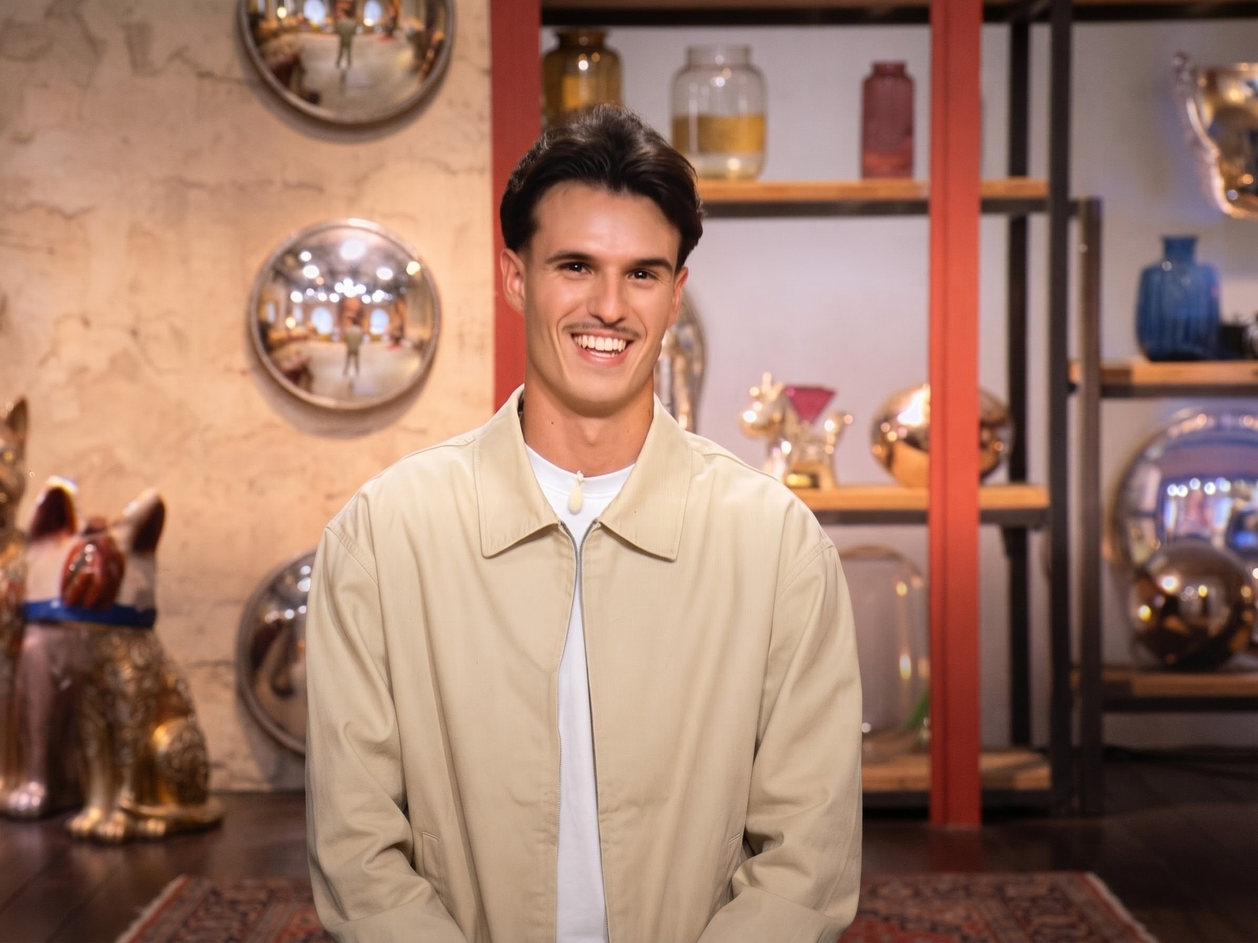
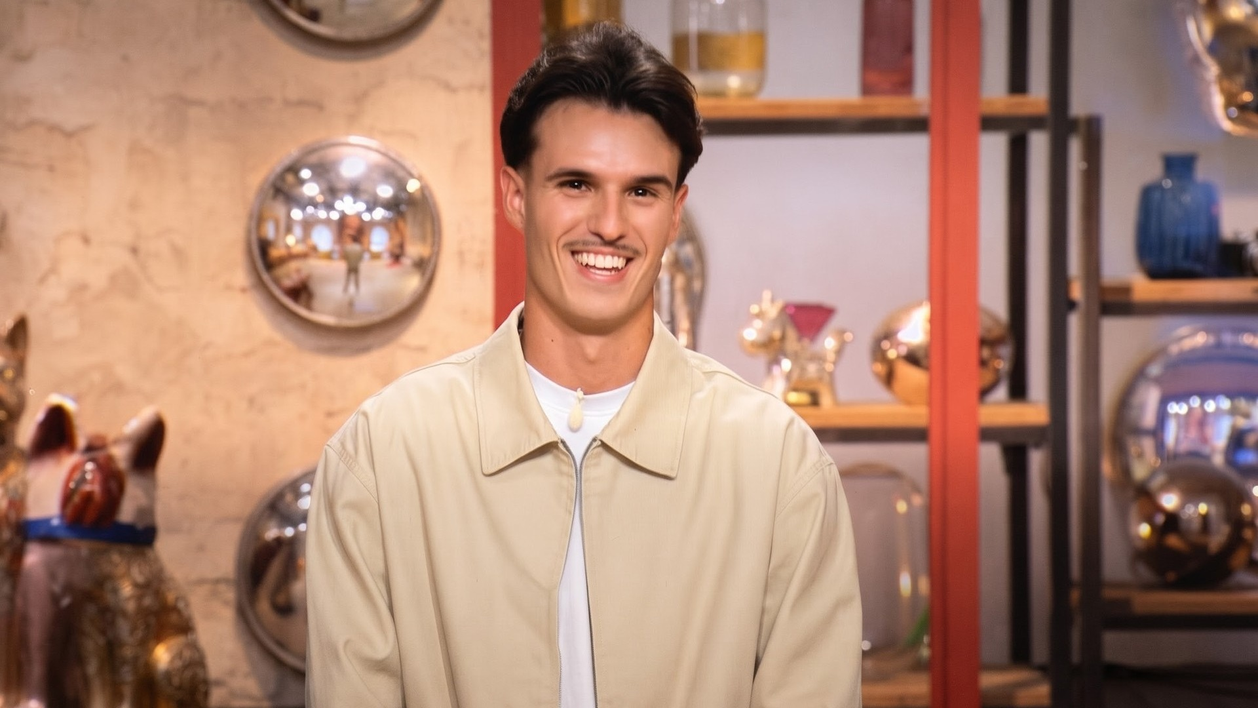
Affaire conclue : réfs et cleans recadrés en 16/9
Claude-Session: https://claude.ai/code/session_015182LFh91P53rg7UUMPXi4

diff --git a/sw.js b/sw.js
@@ -1,7 +1,7 @@
 /* Mode hors ligne – La Grande Incruste 3 */
-const CORE='lgi-core-b22a68559e',IMG='lgi-img-v5',VID='lgi-vid-v1',RUN='lgi-run-v1';
+const CORE='lgi-core-7cfb0a7a53',IMG='lgi-img-v5',VID='lgi-vid-v1',RUN='lgi-run-v1';
 const FILES=['./','index.html','live.html','textes.json','diffusion.js','pdt.js','pdt.json','clean.js','offline.js','manifest.json','update.js','icon-192.png','icon-512.png'];
-const IMGS=["img/001.jpg?v=a0011ef5", "img/002.jpg?v=8a2c886e", "img/003.jpg?v=9f14b1a4", "img/004.jpg?v=be432a55", "img/005.jpg?v=705c38bc", "img/006.jpg?v=d040ff7c", "img/007.jpg?v=d00b0e6d", "img/008.jpg?v=42c808c1", "img/009.jpg?v=75ef2f66", "img/010.jpg?v=fd4c955d", "img/011.jpg?v=bab25d92", "img/012.jpg?v=1a95a5f6", "img/013.jpg?v=3dd606ea", "img/014.jpg?v=b9f47b6b", "img/015.jpg?v=485d7679", "img/016.jpg?v=6b96499b", "img/017.jpg?v=cb431869", "img/018.jpg?v=7e99b3dd", "img/019.jpg?v=9fa5921c", "img/020.jpg?v=a31e7f54", "img/021.jpg?v=b69abc28", "img/022.jpg?v=354d4626", "img/023.jpg?v=2fb60347", "img/024.jpg?v=e2bfb2ad", "img/025.jpg?v=81aa3958", "img/026.jpg?v=86e1f1de", "img/027.jpg?v=6d2871a1", "img/028.jpg?v=9cfdbb8a", "img/029.jpg?v=c40eac71", "img/030.jpg?v=f38a4db4", "img/031.jpg?v=35684917", "img/032.jpg?v=cfd1b45d", "img/033.jpg?v=3813c1a5", "img/034.jpg?v=a809ff5c", "img/035.jpg?v=8538bb8e", "img/036.jpg?v=a704e5b8", "img/037.jpg?v=c8f680c6", "img/038.jpg?v=46319b12", "img/039.jpg?v=77e00b79", "img/040.jpg?v=236da5b0", "img/041.jpg?v=d2ea8ae1", "img/042.jpg?v=3d318eac", "img/043.jpg?v=d6aaf49f", "img/044.jpg?v=e46d1ab4", "img/045.jpg?v=b0a2b200", "img/046.jpg?v=f40981cb", "img/047.jpg?v=99a8083a", "img/048.jpg?v=698fef71", "img/049.jpg?v=1e074c35", "img/050.jpg?v=cb0080d8", "img/051.jpg?v=4a19c8b1", "img/052.jpg?v=2186663a", "img/053.jpg?v=6f4be737", "img/054.jpg?v=b28c822f", "img/055.jpg?v=a1514c56", "img/056.jpg?v=f67d3cd9", "img/057.jpg?v=51f891be", "img/058.jpg?v=1a7cc3f4", "img/059.jpg?v=8482e28a", "img/060.jpg?v=9250aa56", "img/061.jpg?v=38d32fab", "img/062.jpg?v=5310d136", "img/063.jpg?v=035a38ab", "img/064.jpg?v=e4e2b1d3", "img/065.jpg?v=3ddba360", "img/066.jpg?v=44b345fe", "img/067.jpg?v=98e180e1", "img/068.jpg?v=b09ad6af", "img/069.jpg?v=85396bf8", "img/070.jpg?v=5902867d", "img/071.jpg?v=fa3285f3", "img/072.jpg?v=fa16ad7e", "img/073.jpg?v=6db09f7d", "img/074.jpg?v=195c2131", "img/075.jpg?v=c59dc5b5", "img/076.jpg?v=ccd61a36", "img/077.jpg?v=534864a7", "img/078.jpg?v=4b8bb4a3", "img/079.jpg?v=8ca2aa37", "img/080.jpg?v=42b44c9e", "img/081.jpg?v=bca461d0", "img/082.jpg?v=73449934", "img/083.jpg?v=0d8ddd9c", "img/084.jpg?v=42c6d5fb", "img/085.jpg?v=201d317e", "img/086.jpg?v=52d3aa77", "img/087.jpg?v=379cfeae", "img/088.jpg?v=ca428124", "img/089.jpg?v=c5955a72", "img/090.jpg?v=b32f6b95", "img/091.jpg?v=b4706305", "img/092.jpg?v=7d98425a", "img/093.jpg?v=9a6a9c97", "img/094.jpg?v=7b49ec84", "img/095.jpg?v=b0b71136", "img/096.jpg?v=15919d2a", "img/097.jpg?v=0cdca1a1", "img/098.jpg?v=a6092901", "img/099.jpg?v=2d43f55c", "img/100.jpg?v=31e06ba2", "img/101.jpg?v=36eec2bf", "img/102.jpg?v=54b4b38c", "img/103.jpg?v=ae81a3b8", "img/104.jpg?v=f3da651e", "img/105.jpg?v=320df2f5", "img/106.jpg?v=dcaf9b00", "img/107.jpg?v=d2c7eeed", "img/108.jpg?v=8cbfe2db", "img/109.jpg?v=75910756", "img/110.jpg?v=7692a5d4", "img/111.jpg?v=46e7009b", "img/112.jpg?v=73958c76", "img/113.jpg?v=d0c4e6db", "img/114.jpg?v=5e5812db", "img/115.jpg?v=8e83cdd3", "img/116.jpg?v=dba26528", "img/117.jpg?v=a9b2afb3", "img/118.jpg?v=a4b87255", "img/119.jpg?v=09618034", "img/120.jpg?v=df709573", "img/121.jpg?v=213e0610", "img/122.jpg?v=3539d45c", "img/123.jpg?v=d6867744", "img/124.jpg?v=fd1d34ba", "img/125.jpg?v=27ea24d1", "img/126.jpg?v=633e8b76", "img/127.jpg?v=ad5172aa", "img/128.jpg?v=41541019", "img/129.jpg?v=0b569c9d", "img/130.jpg?v=bdb4aaca", "img/131.jpg?v=0669a470", "img/132.jpg?v=7b668b25", "img/133.jpg?v=39581f91", "img/134.jpg?v=aa783c7d", "img/135.jpg?v=167ebcfb", "img/136.jpg?v=dbeef6e2", "img/137.jpg?v=a60be171", "img/138.jpg?v=0b70accb", "img/139.jpg?v=37e7c3fa", "img/140.jpg?v=691d9a20", "img/141.jpg?v=04a589b6", "img/142.jpg?v=26d41662", "img/143.jpg?v=93911a6c", "img/144.jpg?v=baeca3c4", "img/145.jpg?v=5c5d130c", "img/146.jpg?v=50a2ffc8", "img/147.jpg?v=d83475b4", "img/148.jpg?v=d83475b4", "img/149.jpg?v=d83475b4", "img/150.jpg?v=d83475b4", "img/151.jpg?v=ff4ee77d", "img/152.jpg?v=ff4ee77d", "img/153.jpg?v=4a6af0e7", "img/154.jpg?v=496f041a", "img/155.jpg?v=ff4ee77d", "img/156.jpg?v=ccd1a37b", "img/157.jpg?v=3bfc365e", "img/158.jpg?v=23bd9479", "img/159.jpg?v=86bfe93d", "img/160.jpg?v=f3cb3de1", "img/161.jpg?v=bbb08ba0", "img/162.jpg?v=ca7e5f84", "img/163.jpg?v=b094e76c", "img/164.jpg?v=ecee08cb", "img/165.jpg?v=3ddba360", "img/166.jpg?v=f5217898", "img/167.jpg?v=3565bf56", "img/168.jpg?v=dc59566a", "img/169.jpg?v=dc59566a", "img/170.jpg?v=46007893", "img/171.jpg?v=fdb52b78", "img/172.jpg?v=9320b08f", "img/173.jpg?v=fceadc85", "img/174.jpg?v=4d54a63d", "img/175.jpg?v=6991f512", "img/176.jpg?v=110efb8c", "img/177.jpg?v=58fa4ee5", "img/178.jpg?v=58fa4ee5", "img/179.jpg?v=1e50d842", "img/180.jpg?v=ddcaff77", "img/181.jpg?v=d3eb7d39", "img/182.jpg?v=2c0206db", "img/183.jpg?v=9df3054a", "img/184.jpg?v=76c01015", "img/185.jpg?v=d7478ebe", "img/186.jpg?v=9c792c2a", "img/187.jpg?v=f7366176", "img/188.jpg?v=ffa4f4ca", "img/189.jpg?v=0e987da3", "img/190.jpg?v=47c32321", "img/191.jpg?v=94f29b6c", "img/192.jpg?v=74209e7d", "img/193.jpg?v=d8f30150", "img/194.jpg?v=ed4e2808", "img/195.jpg?v=af88a3a7", "img/196.jpg?v=47d40858", "img/197.jpg?v=06a5c2ec", "img/198.jpg?v=330180b5", "img/199.jpg?v=de921f26", "img/200.jpg?v=ea21860f", "img/201.jpg?v=b770ec29", "img/202.jpg?v=4b1cfee6", "img/203.jpg?v=546253bb", "img/204.jpg?v=f8de56d3", "img/205.jpg?v=f17fe5cb", "img/206.jpg?v=e2746a85", "img/207.jpg?v=b5e7da78", "img/208.jpg?v=1b631ced", "img/209.jpg?v=fe5a29b9", "img/210.jpg?v=33e2f5ee", "img/211.jpg?v=236da5b0", "img/212.jpg?v=9c898868", "img/213.jpg?v=c5438416", "img/214.jpg?v=2935cc03", "img/215.jpg?v=22fb0d84", "img/216.jpg?v=503074a5", "img/217.jpg?v=c4ae1e68", "img/218.jpg?v=4046c440", "img/219.jpg?v=9fe33535", "img/220.jpg?v=16d3e18e", "img/221.jpg?v=055666a7", "img/222.jpg?v=01c6cb72", "img/223.jpg?v=7c271227", "img/224.jpg?v=43abcb71", "img/V_court.jpg?v=330180b5", "img/V_moto_large.jpg?v=de921f26", "img/V_moto_serre.jpg?v=ec4b4c94", "img/V_sol.jpg?v=ea21860f", "img/clean/001.jpg?v=b4547a4d", "img/clean/002.jpg?v=3d2cff8a", "img/clean/004.jpg?v=3d370804", "img/clean/005.jpg?v=f1ae7ae3", "img/clean/009.jpg?v=d36661fd", "img/clean/010.jpg?v=be974f6d", "img/clean/011.jpg?v=b33d82a0", "img/clean/012.jpg?v=006e3c27", "img/clean/013.jpg?v=48f4c2af", "img/clean/016.jpg?v=9a99db85", "img/clean/017.jpg?v=071f7947", "img/clean/019.jpg?v=272f20cf", "img/clean/020.jpg?v=d2220bba", "img/clean/021.jpg?v=6b573294", "img/clean/022.jpg?v=6bf0712c", "img/clean/023.jpg?v=ff06a46a", "img/clean/024.jpg?v=25e0e44d", "img/clean/025.jpg?v=e1247b4b", "img/clean/026.jpg?v=977c8d27", "img/clean/028.jpg?v=9255f933", "img/clean/029.jpg?v=6ff06342", "img/clean/032.jpg?v=9b20ec88", "img/clean/035.jpg?v=74050494", "img/clean/039.jpg?v=16215093", "img/clean/040.jpg?v=6ccea22e", "img/clean/042.jpg?v=2ce8d60f", "img/clean/043.jpg?v=f7c64a0d", "img/clean/044.jpg?v=48dde8dd", "img/clean/045.jpg?v=334287bf", "img/clean/046.jpg?v=efbe20a3", "img/clean/048.jpg?v=eff55b19", "img/clean/050.jpg?v=1cbc4f72", "img/clean/052.jpg?v=0502e8ad", "img/clean/070.jpg?v=a6b2c18c", "img/clean/071.jpg?v=27625093", "img/clean/073.jpg?v=c539215d", "img/clean/074.jpg?v=02fde46e", "img/clean/075.jpg?v=af2c3231", "img/clean/076.jpg?v=533cab4e", "img/clean/077.jpg?v=70cc8aa9", "img/clean/078.jpg?v=7f23d9b2", "img/clean/079.jpg?v=1e803a9c", "img/clean/081.jpg?v=be0eeeb6", "img/clean/084.jpg?v=ad7e7cf1", "img/clean/089.jpg?v=fb967293", "img/clean/090.jpg?v=8869ee27", "img/clean/093.jpg?v=00e55bad", "img/clean/100.jpg?v=a7930724", "img/clean/101.jpg?v=4356f24d", "img/clean/103.jpg?v=a9b57fdb", "img/clean/105.jpg?v=aef697cc", "img/clean/106.jpg?v=7080f105", "img/clean/108.jpg?v=ff021c10", "img/clean/110.jpg?v=1f8a95c9", "img/clean/111.jpg?v=ab74f649", "img/clean/112.jpg?v=c694fc7a", "img/clean/114.jpg?v=1bd79928", "img/clean/162.jpg?v=a1b3005b", "img/clean/168.jpg?v=09695472", "img/clean/169.jpg?v=09695472", "img/clean/176.jpg?v=eae06dcc", "img/clean/179.jpg?v=d7f955cc", "img/clean/180.jpg?v=f2bba526", "img/clean/181.jpg?v=823df817", "img/clean/183.jpg?v=5ca38cba", "img/clean/184.jpg?v=24afc06e", "img/clean/185.jpg?v=ff2be735", "img/clean/186.jpg?v=3b5802af", "img/clean/187.jpg?v=9a5579c3", "img/clean/188.jpg?v=5c047fc1", "img/clean/196.jpg?v=80b69c75", "img/clean/197.jpg?v=06a5c2ec", "img/clean/198.jpg?v=bb06bbc7", "img/clean/199.jpg?v=04cae4b9", "img/clean/201.jpg?v=07bd81e1", "img/clean/211.jpg?v=6ccea22e", "img/clean/212.jpg?v=f02ef600", "img/clean/223.jpg?v=0080d040", "img/clean/224.jpg?v=f08f06e6"];
+const IMGS=["img/001.jpg?v=a0011ef5", "img/002.jpg?v=8a2c886e", "img/003.jpg?v=9f14b1a4", "img/004.jpg?v=be432a55", "img/005.jpg?v=705c38bc", "img/006.jpg?v=d040ff7c", "img/007.jpg?v=d00b0e6d", "img/008.jpg?v=42c808c1", "img/009.jpg?v=75ef2f66", "img/010.jpg?v=fd4c955d", "img/011.jpg?v=bab25d92", "img/012.jpg?v=1a95a5f6", "img/013.jpg?v=3dd606ea", "img/014.jpg?v=b9f47b6b", "img/015.jpg?v=485d7679", "img/016.jpg?v=6b96499b", "img/017.jpg?v=cb431869", "img/018.jpg?v=7e99b3dd", "img/019.jpg?v=9fa5921c", "img/020.jpg?v=a31e7f54", "img/021.jpg?v=b69abc28", "img/022.jpg?v=354d4626", "img/023.jpg?v=2fb60347", "img/024.jpg?v=e2bfb2ad", "img/025.jpg?v=81aa3958", "img/026.jpg?v=86e1f1de", "img/027.jpg?v=6d2871a1", "img/028.jpg?v=9cfdbb8a", "img/029.jpg?v=c40eac71", "img/030.jpg?v=f38a4db4", "img/031.jpg?v=35684917", "img/032.jpg?v=cfd1b45d", "img/033.jpg?v=3813c1a5", "img/034.jpg?v=a809ff5c", "img/035.jpg?v=8538bb8e", "img/036.jpg?v=a704e5b8", "img/037.jpg?v=c8f680c6", "img/038.jpg?v=46319b12", "img/039.jpg?v=77e00b79", "img/040.jpg?v=236da5b0", "img/041.jpg?v=d2ea8ae1", "img/042.jpg?v=3d318eac", "img/043.jpg?v=d6aaf49f", "img/044.jpg?v=e46d1ab4", "img/045.jpg?v=b0a2b200", "img/046.jpg?v=f40981cb", "img/047.jpg?v=99a8083a", "img/048.jpg?v=698fef71", "img/049.jpg?v=1e074c35", "img/050.jpg?v=cb0080d8", "img/051.jpg?v=4a19c8b1", "img/052.jpg?v=2186663a", "img/053.jpg?v=6f4be737", "img/054.jpg?v=b28c822f", "img/055.jpg?v=a1514c56", "img/056.jpg?v=f67d3cd9", "img/057.jpg?v=51f891be", "img/058.jpg?v=1a7cc3f4", "img/059.jpg?v=8482e28a", "img/060.jpg?v=9250aa56", "img/061.jpg?v=38d32fab", "img/062.jpg?v=5310d136", "img/063.jpg?v=035a38ab", "img/064.jpg?v=e4e2b1d3", "img/065.jpg?v=3ddba360", "img/066.jpg?v=44b345fe", "img/067.jpg?v=98e180e1", "img/068.jpg?v=b09ad6af", "img/069.jpg?v=85396bf8", "img/070.jpg?v=5902867d", "img/071.jpg?v=fa3285f3", "img/072.jpg?v=fa16ad7e", "img/073.jpg?v=6db09f7d", "img/074.jpg?v=195c2131", "img/075.jpg?v=c59dc5b5", "img/076.jpg?v=ccd61a36", "img/077.jpg?v=534864a7", "img/078.jpg?v=4b8bb4a3", "img/079.jpg?v=8ca2aa37", "img/080.jpg?v=42b44c9e", "img/081.jpg?v=bca461d0", "img/082.jpg?v=73449934", "img/083.jpg?v=0d8ddd9c", "img/084.jpg?v=42c6d5fb", "img/085.jpg?v=201d317e", "img/086.jpg?v=52d3aa77", "img/087.jpg?v=379cfeae", "img/088.jpg?v=ca428124", "img/089.jpg?v=c5955a72", "img/090.jpg?v=b32f6b95", "img/091.jpg?v=b4706305", "img/092.jpg?v=7d98425a", "img/093.jpg?v=9a6a9c97", "img/094.jpg?v=7b49ec84", "img/095.jpg?v=b0b71136", "img/096.jpg?v=15919d2a", "img/097.jpg?v=0cdca1a1", "img/098.jpg?v=a6092901", "img/099.jpg?v=2d43f55c", "img/100.jpg?v=31e06ba2", "img/101.jpg?v=36eec2bf", "img/102.jpg?v=54b4b38c", "img/103.jpg?v=ae81a3b8", "img/104.jpg?v=f3da651e", "img/105.jpg?v=320df2f5", "img/106.jpg?v=dcaf9b00", "img/107.jpg?v=d2c7eeed", "img/108.jpg?v=8cbfe2db", "img/109.jpg?v=75910756", "img/110.jpg?v=7692a5d4", "img/111.jpg?v=46e7009b", "img/112.jpg?v=73958c76", "img/113.jpg?v=d0c4e6db", "img/114.jpg?v=5e5812db", "img/115.jpg?v=8e83cdd3", "img/116.jpg?v=dba26528", "img/117.jpg?v=a9b2afb3", "img/118.jpg?v=a4b87255", "img/119.jpg?v=09618034", "img/120.jpg?v=df709573", "img/121.jpg?v=213e0610", "img/122.jpg?v=3539d45c", "img/123.jpg?v=d6867744", "img/124.jpg?v=fd1d34ba", "img/125.jpg?v=27ea24d1", "img/126.jpg?v=633e8b76", "img/127.jpg?v=ad5172aa", "img/128.jpg?v=41541019", "img/129.jpg?v=0b569c9d", "img/130.jpg?v=bdb4aaca", "img/131.jpg?v=0669a470", "img/132.jpg?v=7b668b25", "img/133.jpg?v=39581f91", "img/134.jpg?v=aa783c7d", "img/135.jpg?v=167ebcfb", "img/136.jpg?v=dbeef6e2", "img/137.jpg?v=a60be171", "img/138.jpg?v=0b70accb", "img/139.jpg?v=37e7c3fa", "img/140.jpg?v=691d9a20", "img/141.jpg?v=04a589b6", "img/142.jpg?v=26d41662", "img/143.jpg?v=93911a6c", "img/144.jpg?v=baeca3c4", "img/145.jpg?v=5c5d130c", "img/146.jpg?v=50a2ffc8", "img/147.jpg?v=d83475b4", "img/148.jpg?v=d83475b4", "img/149.jpg?v=d83475b4", "img/150.jpg?v=d83475b4", "img/151.jpg?v=ff4ee77d", "img/152.jpg?v=ff4ee77d", "img/153.jpg?v=4a6af0e7", "img/154.jpg?v=496f041a", "img/155.jpg?v=ff4ee77d", "img/156.jpg?v=ccd1a37b", "img/157.jpg?v=3bfc365e", "img/158.jpg?v=23bd9479", "img/159.jpg?v=86bfe93d", "img/160.jpg?v=f3cb3de1", "img/161.jpg?v=bbb08ba0", "img/162.jpg?v=ca7e5f84", "img/163.jpg?v=b094e76c", "img/164.jpg?v=ecee08cb", "img/165.jpg?v=3ddba360", "img/166.jpg?v=f5217898", "img/167.jpg?v=3565bf56", "img/168.jpg?v=dc59566a", "img/169.jpg?v=dc59566a", "img/170.jpg?v=46007893", "img/171.jpg?v=fdb52b78", "img/172.jpg?v=9320b08f", "img/173.jpg?v=fceadc85", "img/174.jpg?v=4d54a63d", "img/175.jpg?v=6991f512", "img/176.jpg?v=110efb8c", "img/177.jpg?v=58fa4ee5", "img/178.jpg?v=58fa4ee5", "img/179.jpg?v=1e50d842", "img/180.jpg?v=ddcaff77", "img/181.jpg?v=d3eb7d39", "img/182.jpg?v=2c0206db", "img/183.jpg?v=9df3054a", "img/184.jpg?v=76c01015", "img/185.jpg?v=d7478ebe", "img/186.jpg?v=9c792c2a", "img/187.jpg?v=f7366176", "img/188.jpg?v=ffa4f4ca", "img/189.jpg?v=0e987da3", "img/190.jpg?v=47c32321", "img/191.jpg?v=94f29b6c", "img/192.jpg?v=74209e7d", "img/193.jpg?v=d8f30150", "img/194.jpg?v=ed4e2808", "img/195.jpg?v=af88a3a7", "img/196.jpg?v=47d40858", "img/197.jpg?v=06a5c2ec", "img/198.jpg?v=330180b5", "img/199.jpg?v=de921f26", "img/200.jpg?v=ea21860f", "img/201.jpg?v=b770ec29", "img/202.jpg?v=4b1cfee6", "img/203.jpg?v=546253bb", "img/204.jpg?v=f8de56d3", "img/205.jpg?v=f17fe5cb", "img/206.jpg?v=e2746a85", "img/207.jpg?v=b5e7da78", "img/208.jpg?v=1b631ced", "img/209.jpg?v=fe5a29b9", "img/210.jpg?v=33e2f5ee", "img/211.jpg?v=236da5b0", "img/212.jpg?v=9c898868", "img/213.jpg?v=c5438416", "img/214.jpg?v=2935cc03", "img/215.jpg?v=22fb0d84", "img/216.jpg?v=503074a5", "img/217.jpg?v=c4ae1e68", "img/218.jpg?v=4046c440", "img/219.jpg?v=9fe33535", "img/220.jpg?v=16d3e18e", "img/221.jpg?v=055666a7", "img/222.jpg?v=01c6cb72", "img/223.jpg?v=809d1f33", "img/224.jpg?v=a594e53c", "img/V_court.jpg?v=330180b5", "img/V_moto_large.jpg?v=de921f26", "img/V_moto_serre.jpg?v=ec4b4c94", "img/V_sol.jpg?v=ea21860f", "img/clean/001.jpg?v=b4547a4d", "img/clean/002.jpg?v=3d2cff8a", "img/clean/004.jpg?v=3d370804", "img/clean/005.jpg?v=f1ae7ae3", "img/clean/009.jpg?v=d36661fd", "img/clean/010.jpg?v=be974f6d", "img/clean/011.jpg?v=b33d82a0", "img/clean/012.jpg?v=006e3c27", "img/clean/013.jpg?v=48f4c2af", "img/clean/016.jpg?v=9a99db85", "img/clean/017.jpg?v=071f7947", "img/clean/019.jpg?v=272f20cf", "img/clean/020.jpg?v=d2220bba", "img/clean/021.jpg?v=6b573294", "img/clean/022.jpg?v=6bf0712c", "img/clean/023.jpg?v=ff06a46a", "img/clean/024.jpg?v=25e0e44d", "img/clean/025.jpg?v=e1247b4b", "img/clean/026.jpg?v=977c8d27", "img/clean/028.jpg?v=9255f933", "img/clean/029.jpg?v=6ff06342", "img/clean/032.jpg?v=9b20ec88", "img/clean/035.jpg?v=74050494", "img/clean/039.jpg?v=16215093", "img/clean/040.jpg?v=6ccea22e", "img/clean/042.jpg?v=2ce8d60f", "img/clean/043.jpg?v=f7c64a0d", "img/clean/044.jpg?v=48dde8dd", "img/clean/045.jpg?v=334287bf", "img/clean/046.jpg?v=efbe20a3", "img/clean/048.jpg?v=eff55b19", "img/clean/050.jpg?v=1cbc4f72", "img/clean/052.jpg?v=0502e8ad", "img/clean/070.jpg?v=a6b2c18c", "img/clean/071.jpg?v=27625093", "img/clean/073.jpg?v=c539215d", "img/clean/074.jpg?v=02fde46e", "img/clean/075.jpg?v=af2c3231", "img/clean/076.jpg?v=533cab4e", "img/clean/077.jpg?v=70cc8aa9", "img/clean/078.jpg?v=7f23d9b2", "img/clean/079.jpg?v=1e803a9c", "img/clean/081.jpg?v=be0eeeb6", "img/clean/084.jpg?v=ad7e7cf1", "img/clean/089.jpg?v=fb967293", "img/clean/090.jpg?v=8869ee27", "img/clean/093.jpg?v=00e55bad", "img/clean/100.jpg?v=a7930724", "img/clean/101.jpg?v=4356f24d", "img/clean/103.jpg?v=a9b57fdb", "img/clean/105.jpg?v=aef697cc", "img/clean/106.jpg?v=7080f105", "img/clean/108.jpg?v=ff021c10", "img/clean/110.jpg?v=1f8a95c9", "img/clean/111.jpg?v=ab74f649", "img/clean/112.jpg?v=c694fc7a", "img/clean/114.jpg?v=1bd79928", "img/clean/162.jpg?v=a1b3005b", "img/clean/168.jpg?v=09695472", "img/clean/169.jpg?v=09695472", "img/clean/176.jpg?v=eae06dcc", "img/clean/179.jpg?v=d7f955cc", "img/clean/180.jpg?v=f2bba526", "img/clean/181.jpg?v=823df817", "img/clean/183.jpg?v=5ca38cba", "img/clean/184.jpg?v=24afc06e", "img/clean/185.jpg?v=ff2be735", "img/clean/186.jpg?v=3b5802af", "img/clean/187.jpg?v=9a5579c3", "img/clean/188.jpg?v=5c047fc1", "img/clean/196.jpg?v=80b69c75", "img/clean/197.jpg?v=06a5c2ec", "img/clean/198.jpg?v=bb06bbc7", "img/clean/199.jpg?v=04cae4b9", "img/clean/201.jpg?v=07bd81e1", "img/clean/211.jpg?v=6ccea22e", "img/clean/212.jpg?v=f02ef600", "img/clean/223.jpg?v=5d15ccd6", "img/clean/224.jpg?v=27f38127"];
 self.addEventListener('install',e=>{self.skipWaiting();e.waitUntil((async()=>{
   const c=await caches.open(CORE);await Promise.all(FILES.map(f=>c.add(new Request(f,{cache:'reload'})).catch(()=>{})));
   const ic=await caches.open(IMG);const todo=[];for(const u of IMGS){if(!(await ic.match(u)))todo.push(u)}

diff --git a/index.html b/index.html
@@ -447,9 +447,9 @@ Réalisateur « Le script, le script… Il a que ce mot à la bouche celui-là. 
 <dl class="grid"><div><dt>Diaph</dt><dd>f/2.8</dd></div><div><dt>Distance</dt><dd>0,4 m</dd></div><div><dt>Hauteur caméra</dt><dd>1,05 m</dd></div><div><dt>Inclinaison</dt><dd>0°</dd></div></dl>
 <div class="light"><h4>Lumière</h4><p>Latérale chaude rasante (≈ 3000 K) qui fait ressortir la texture du métal ; fond sombre flou avec un reflet clair.</p></div><p class="vfx">Porte de la régie</p><p class="lfx"><span class="lfxv">—</span></p></div></div><div class="shot"><div class="shot-pic"><button class="pic" type="button" data-full="img/222.jpg?v=01c6cb72" data-cap="#126 · Intro – Réalisateur en régie · Détail : voyant rouge qui passe au vert" aria-label="Agrandir l&#39;image"><img src="img/222.jpg?v=01c6cb72" alt="#126 · Intro – Réalisateur en régie · Détail : voyant rouge qui passe au vert" loading="lazy" width="1440" height="948"><span class="zoom">Agrandir</span></button><button class="lkbtn" type="button" data-img="img/222.jpg?v=01c6cb72" data-cap="#126 · Intro – Réalisateur en régie · Détail : voyant rouge qui passe au vert">◉ Incruste live</button></div><div class="shot-info"><p class="plan"><span class="n">#126</span>Détail : voyant rouge qui passe au vert</p><div class="lens"><span class="chip gm">G Master 24-70</span><span class="foc">70 mm</span></div>
 <dl class="grid"><div><dt>Diaph</dt><dd>f/2.8</dd></div><div><dt>Distance</dt><dd>0,4 m</dd></div><div><dt>Hauteur caméra</dt><dd>1,20 m</dd></div><div><dt>Inclinaison</dt><dd>0°</dd></div></dl>
-<div class="light"><h4>Lumière</h4><p>Le voyant est la source (rouge puis vert) sur du métal brossé ; ambiance très sombre.</p></div><p class="vfx">Porte de la régie · voyant bicolore (ou 2 prises)</p><p class="lfx"><span class="lfxv">—</span></p></div></div><div class="cards"><div class="card"><span class="refbadge">À tourner · pas d'image</span><h3>Matin (10h30, studio) – Intro plan 1</h3><p>Contre-plongée sur Camille → plafond du studio. Figurants : 2 gardes du corps. HMC : perruque fille, haut femme (à confirmer). Pas de réf image dans le déroulé.</p><p class="acc"><b>Accessoires :</b> 2 gardes du corps</p></div></div></article><article class="seq"><div class="keep"><h2>Affaire conclue</h2><p class="src">Origine : plateau télé, caméras broadcast 2/3&quot; et zooms (déduit, non publié). Sur FX6, fermer pour garder le fond aussi net.</p><div class="shot"><div class="shot-pic"><button class="pic" type="button" data-full="img/223.jpg?v=7c271227" data-clean="img/clean/223.jpg?v=0080d040" data-cap="#127 · Affaire conclue · Plan 1 – Camille dans la boutique (miroirs, étagère rouge)" aria-label="Agrandir l&#39;image"><img src="img/223.jpg?v=7c271227" alt="#127 · Affaire conclue · Plan 1 – Camille dans la boutique (miroirs, étagère rouge)" loading="lazy" width="1920" height="1439"><span class="zoom">Agrandir</span></button><button class="lkbtn" type="button" data-img="img/223.jpg?v=7c271227" data-cap="#127 · Affaire conclue · Plan 1 – Camille dans la boutique (miroirs, étagère rouge)">◉ Incruste live</button></div><div class="shot-info"><p class="plan"><span class="n">#127</span>Plan 1 – Camille dans la boutique (miroirs, étagère rouge)</p><div class="lens"><span class="chip gm">G Master 70-200</span><span class="foc">85 mm</span></div>
+<div class="light"><h4>Lumière</h4><p>Le voyant est la source (rouge puis vert) sur du métal brossé ; ambiance très sombre.</p></div><p class="vfx">Porte de la régie · voyant bicolore (ou 2 prises)</p><p class="lfx"><span class="lfxv">—</span></p></div></div><div class="cards"><div class="card"><span class="refbadge">À tourner · pas d'image</span><h3>Matin (10h30, studio) – Intro plan 1</h3><p>Contre-plongée sur Camille → plafond du studio. Figurants : 2 gardes du corps. HMC : perruque fille, haut femme (à confirmer). Pas de réf image dans le déroulé.</p><p class="acc"><b>Accessoires :</b> 2 gardes du corps</p></div></div></article><article class="seq"><div class="keep"><h2>Affaire conclue</h2><p class="src">Origine : plateau télé, caméras broadcast 2/3&quot; et zooms (déduit, non publié). Sur FX6, fermer pour garder le fond aussi net.</p><div class="shot"><div class="shot-pic"><button class="pic" type="button" data-full="img/223.jpg?v=809d1f33" data-clean="img/clean/223.jpg?v=5d15ccd6" data-cap="#127 · Affaire conclue · Plan 1 – Camille dans la boutique (miroirs, étagère rouge)" aria-label="Agrandir l&#39;image"><img src="img/223.jpg?v=809d1f33" alt="#127 · Affaire conclue · Plan 1 – Camille dans la boutique (miroirs, étagère rouge)" loading="lazy" width="1920" height="1080"><span class="zoom">Agrandir</span></button><button class="lkbtn" type="button" data-img="img/223.jpg?v=809d1f33" data-cap="#127 · Affaire conclue · Plan 1 – Camille dans la boutique (miroirs, étagère rouge)">◉ Incruste live</button></div><div class="shot-info"><p class="plan"><span class="n">#127</span>Plan 1 – Camille dans la boutique (miroirs, étagère rouge)</p><div class="lens"><span class="chip gm">G Master 70-200</span><span class="foc">85 mm</span></div>
 <dl class="grid"><div><dt>Diaph</dt><dd>f/2.8</dd></div><div><dt>Distance</dt><dd>2,8 m</dd></div><div><dt>Hauteur caméra</dt><dd>1,55 m</dd></div><div><dt>Inclinaison</dt><dd>0°</dd></div></dl>
-<div class="light"><h4>Lumière</h4><p>Key douce et large de face (≈ 5600 K), léger débouchage ; fond boutique chaud en pratiques (≈ 3200 K), miroirs bombés et étagères très flous.</p><p class="ratio"><span>Ratio ≈ 1,5:1 (≈ 0,6 IL) · Key : douce et large de face · Contre : non, fond chaud en pratiques</span></p></div><p class="vfx">Fond vert · plan taille face caméra · décor boutique en fond flou</p><p class="lfx"><span class="lfxv">—</span></p></div></div></div><div class="shot"><div class="shot-pic"><button class="pic" type="button" data-full="img/224.jpg?v=43abcb71" data-clean="img/clean/224.jpg?v=f08f06e6" data-cap="#128 · Affaire conclue · Plan 2 – Camille devant le plateau Affaire conclue" aria-label="Agrandir l&#39;image"><img src="img/224.jpg?v=43abcb71" alt="#128 · Affaire conclue · Plan 2 – Camille devant le plateau Affaire conclue" loading="lazy" width="1024" height="768"><span class="zoom">Agrandir</span></button><button class="lkbtn" type="button" data-img="img/224.jpg?v=43abcb71" data-cap="#128 · Affaire conclue · Plan 2 – Camille devant le plateau Affaire conclue">◉ Incruste live</button></div><div class="shot-info"><p class="plan"><span class="n">#128</span>Plan 2 – Camille devant le plateau Affaire conclue</p><div class="lens"><span class="chip gm">G Master 70-200</span><span class="foc">70 mm</span></div>
+<div class="light"><h4>Lumière</h4><p>Key douce et large de face (≈ 5600 K), léger débouchage ; fond boutique chaud en pratiques (≈ 3200 K), miroirs bombés et étagères très flous.</p><p class="ratio"><span>Ratio ≈ 1,5:1 (≈ 0,6 IL) · Key : douce et large de face · Contre : non, fond chaud en pratiques</span></p></div><p class="vfx">Fond vert · plan taille face caméra · décor boutique en fond flou</p><p class="lfx"><span class="lfxv">—</span></p></div></div></div><div class="shot"><div class="shot-pic"><button class="pic" type="button" data-full="img/224.jpg?v=a594e53c" data-clean="img/clean/224.jpg?v=27f38127" data-cap="#128 · Affaire conclue · Plan 2 – Camille devant le plateau Affaire conclue" aria-label="Agrandir l&#39;image"><img src="img/224.jpg?v=a594e53c" alt="#128 · Affaire conclue · Plan 2 – Camille devant le plateau Affaire conclue" loading="lazy" width="1024" height="576"><span class="zoom">Agrandir</span></button><button class="lkbtn" type="button" data-img="img/224.jpg?v=a594e53c" data-cap="#128 · Affaire conclue · Plan 2 – Camille devant le plateau Affaire conclue">◉ Incruste live</button></div><div class="shot-info"><p class="plan"><span class="n">#128</span>Plan 2 – Camille devant le plateau Affaire conclue</p><div class="lens"><span class="chip gm">G Master 70-200</span><span class="foc">70 mm</span></div>
 <dl class="grid"><div><dt>Diaph</dt><dd>f/2.8</dd></div><div><dt>Distance</dt><dd>2,5 m</dd></div><div><dt>Hauteur caméra</dt><dd>1,60 m</dd></div><div><dt>Inclinaison</dt><dd>0°</dd></div></dl>
 <div class="light"><h4>Lumière</h4><p>Key douce de face légèrement gauche (≈ 5600 K) ; plateau en ambiance chaude tungstène (≈ 3200 K), projecteurs allumés et mur de briques en fond flou.</p><p class="ratio"><span>Ratio ≈ 1,5:1 (≈ 0,6 IL) · Key : douce de face, légèrement gauche · Contre : non, fond chaud tungstène</span></p></div><p class="vfx">Fond vert · plan taille face caméra · plateau (logo, kayak jaune) en fond flou</p><p class="lfx"><span class="lfxv">—</span></p></div></div></article></section><section class="day" id="J10"><header class="dayhead"><div class="slate"><span class="jn">J10</span><span class="dt">Mardi 27/10</span></div><div class="dmeta"><span>Plateau XR vidéo</span><span>INT</span><span>3 séquences · 10 refs</span></div></header><article class="seq"><div class="keep"><h2>Maillon faible</h2><p class="src">Origine : plateau télé, caméras broadcast 2/3&quot; et zooms (déduit, non publié). Sur FX6, fermer pour garder le fond aussi net.</p><div class="shot"><div class="shot-pic"><button class="pic" type="button" data-full="img/140.jpg?v=691d9a20" data-cap="#129 · Maillon faible · Plan 1 – animateur : Camille à sa place" aria-label="Agrandir l&#39;image"><img src="img/140.jpg?v=691d9a20" alt="#129 · Maillon faible · Plan 1 – animateur : Camille à sa place" loading="lazy" width="2400" height="1767"><span class="zoom">Agrandir</span></button><button class="lkbtn" type="button" data-img="img/140.jpg?v=691d9a20" data-cap="#129 · Maillon faible · Plan 1 – animateur : Camille à sa place">◉ Incruste live</button></div><div class="shot-info"><p class="plan"><span class="n">#129</span>Plan 1 – animateur : Camille à sa place</p><div class="lens"><span class="chip gm">G Master 70-200</span><span class="foc">85 mm</span></div>
 <dl class="grid"><div><dt>Diaph</dt><dd>f/4</dd></div><div><dt>Distance</dt><dd>3,1 m</dd></div><div><dt>Hauteur caméra</dt><dd>1,50 m</dd></div><div><dt>Inclinaison</dt><dd>0°</dd></div></dl>
@@ -2081,7 +2081,7 @@ paint();
 <script src="diffusion.js"></script>
 <script src="offline.js"></script>
 <script src="pdt.js"></script>
-<script>window.LGI_BUILD='20261026-175940-1c60'</script><script src="update.js"></script>
+<script>window.LGI_BUILD='20261026-181048-ae38'</script><script src="update.js"></script>
 <script src="clean.js"></script>
 <script>
 (function(){

diff --git a/live.html b/live.html
@@ -676,4 +676,4 @@ if(f.type.indexOf('video')===0)window.__lk.open(null,f.name,b,u);else window.__l
 </script>
 <script src="diffusion.js"></script>
 <script src="clean.js"></script>
-<script src="offline.js"></script><script>window.LGI_BUILD='20261026-175940-1c60'</script><script src="update.js"></script></body></html>
+<script src="offline.js"></script><script>window.LGI_BUILD='20261026-181048-ae38'</script><script src="update.js"></script></body></html>
